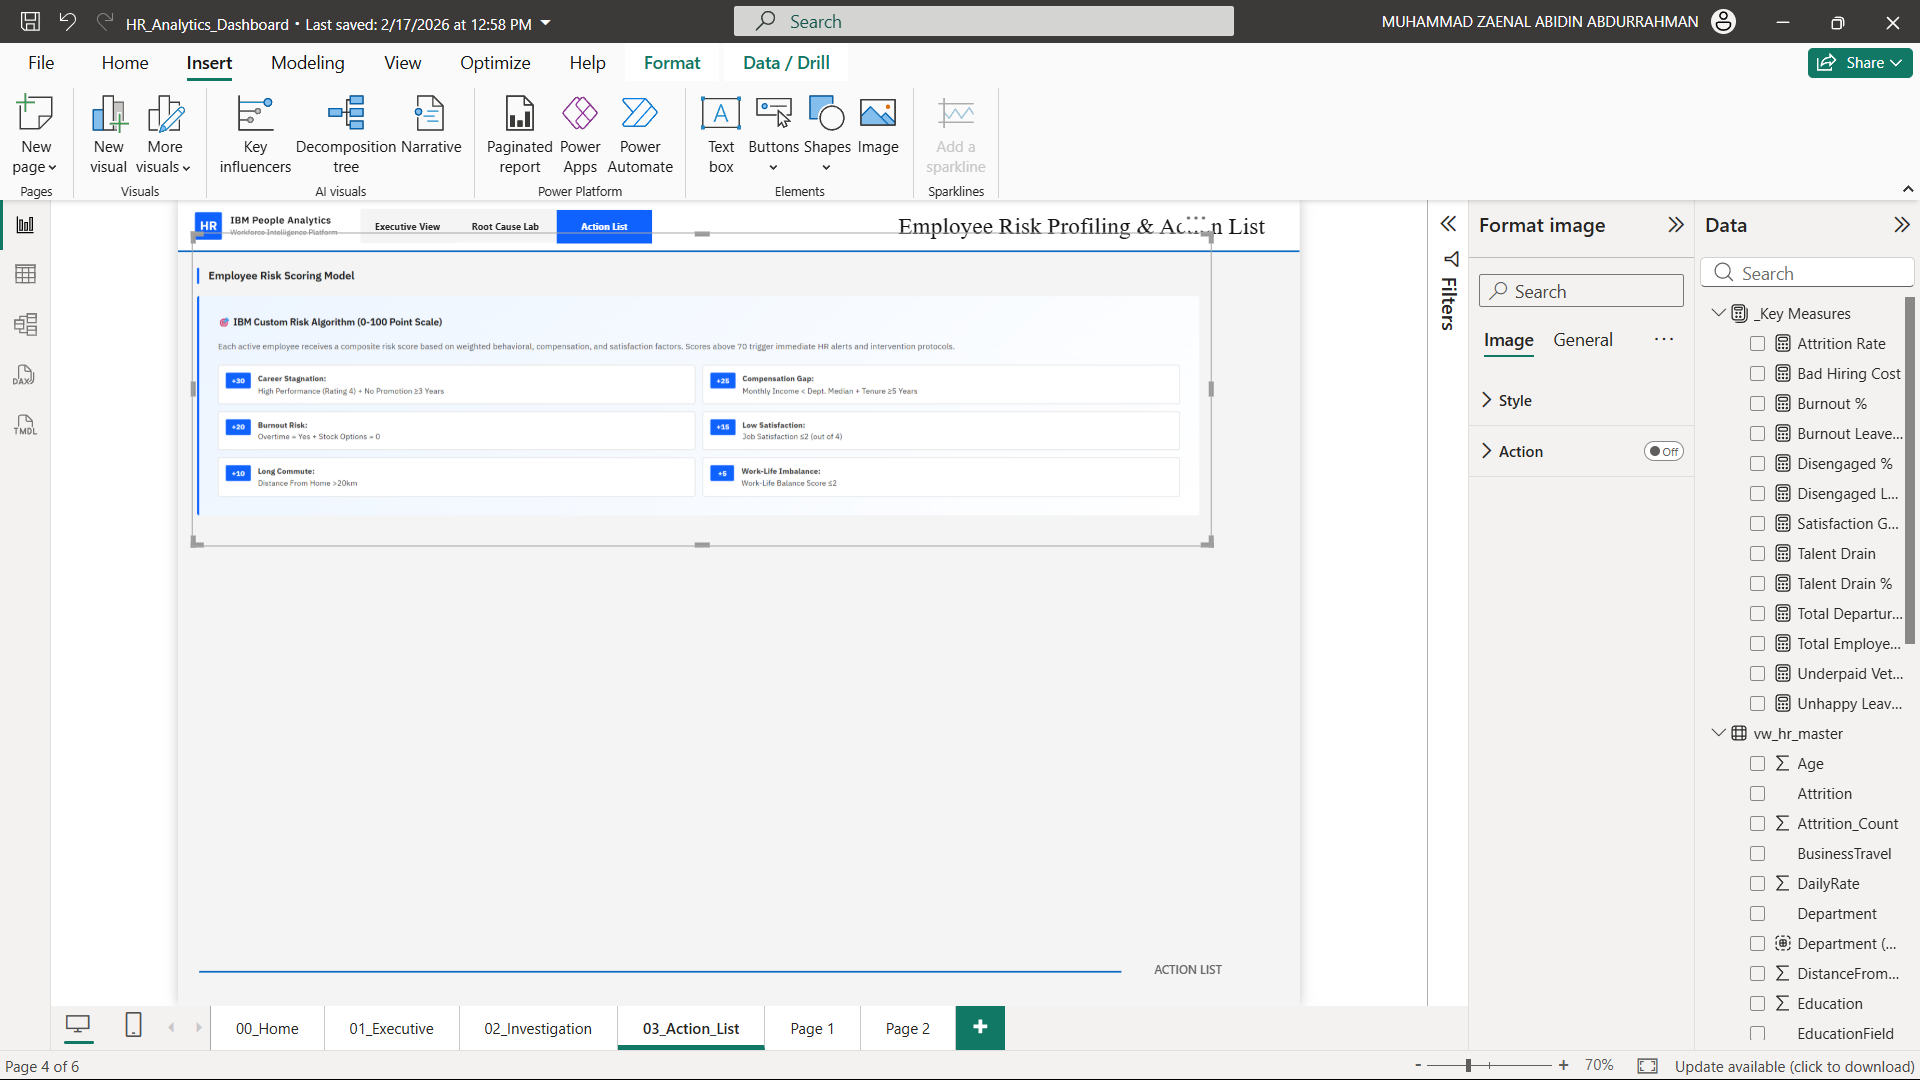
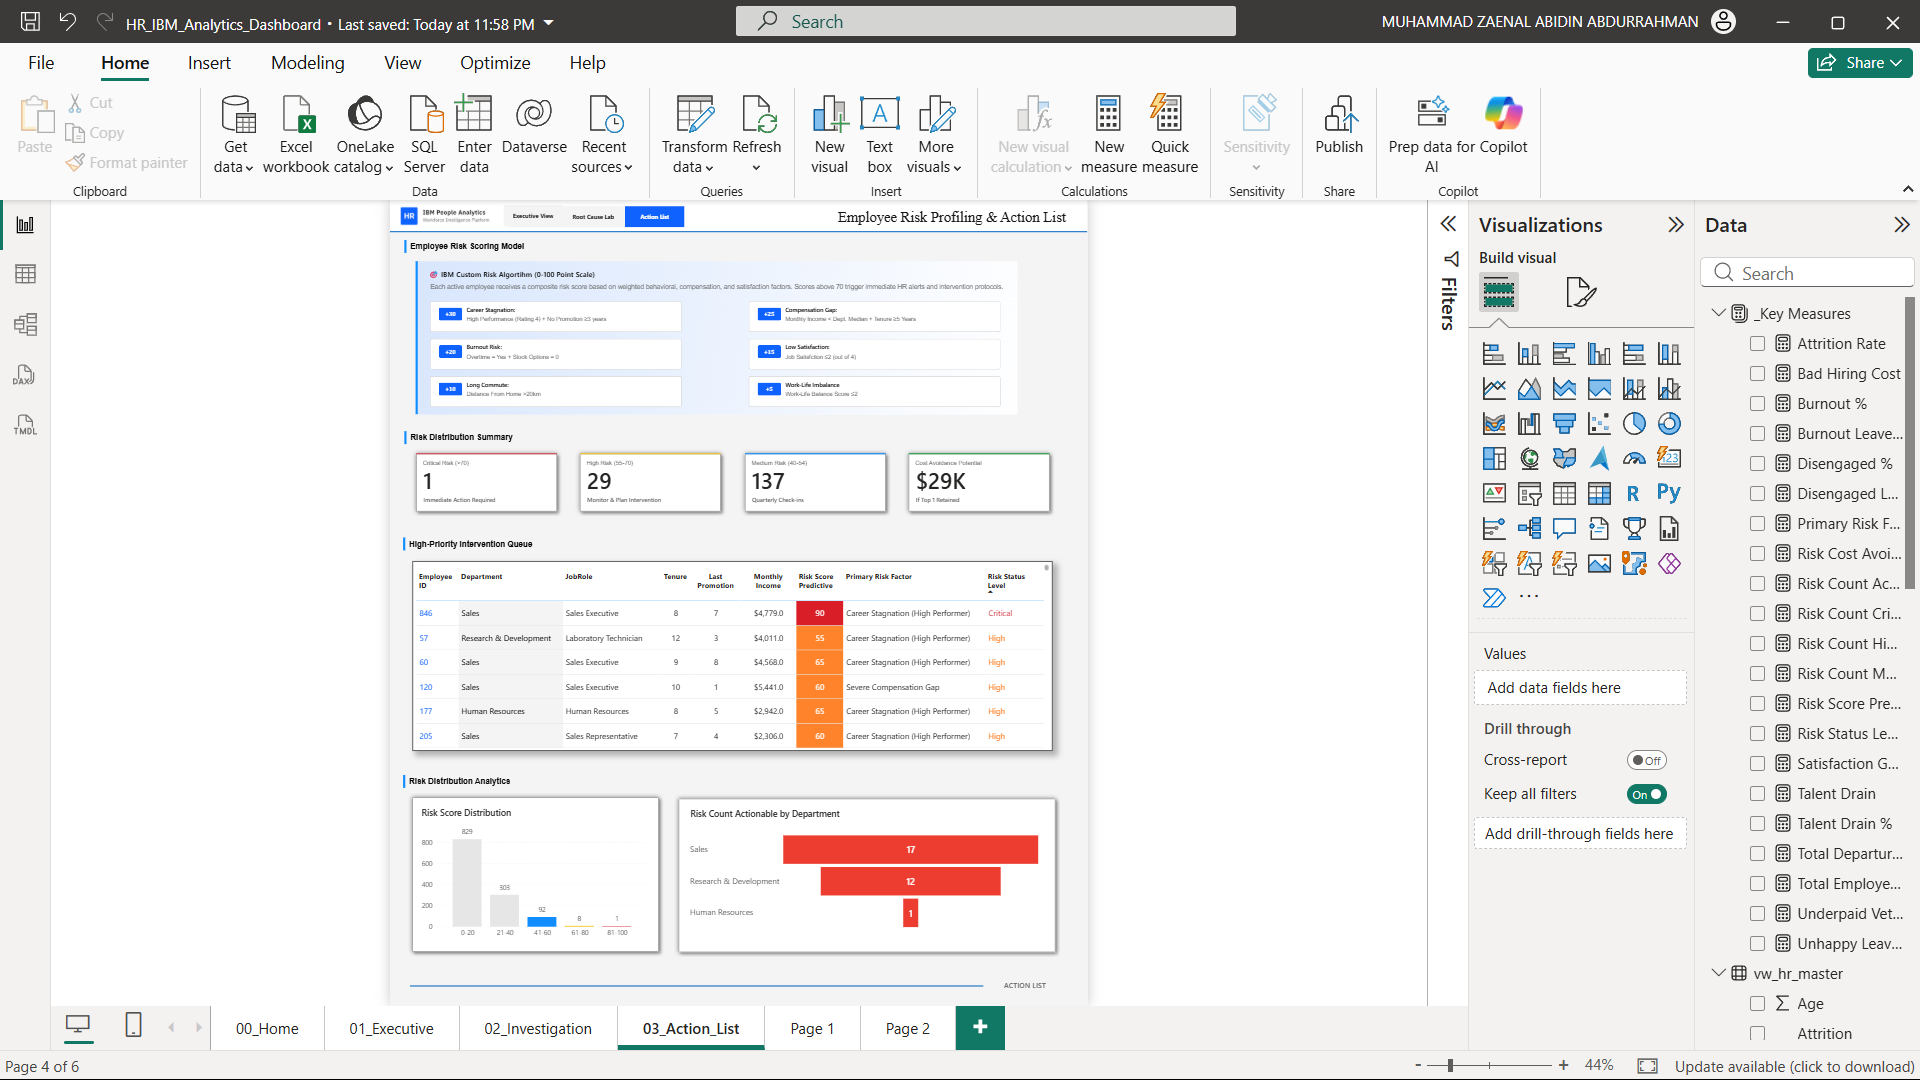
feat: deploy Module 03 Predictive Intervention System and finalize platform
Engineered a custom DAX Risk Scoring Engine (0-100 scale) for row-level employee attrition evaluation based on 6 core business drivers. Implemented Executive Summary KPIs including a  Cost Avoidance metric. Designed the Intervention Queue with dynamic conditional data bars and automated diagnostic tags (Primary Risk Factor). Built Risk Distribution Analytics featuring a Score Histogram, Concentration Funnel, and Pareto chart. Overhauled README.md to reflect enterprise-grade prescriptive analytics architecture. Concluded end-to-end Power BI development.

diff --git a/README.md b/README.md
@@ -1,71 +1,74 @@
-# HR Executive Command Center: People Analytics Platform
+# HR Executive Command Center: Predictive Analytics & Intervention Platform
 
-![MySQL](https://img.shields.io/badge/Database-MySQL_8.0-005C84?logo=mysql&logoColor=white)
-![Power BI](https://img.shields.io/badge/Visualization-Power_BI-F2C811?logo=powerbi&logoColor=black)
-![Status](https://img.shields.io/badge/Status-Active_Development-007ACC)
+## Executive Summary
 
-## Dashboard Architecture Preview
+This project represents a fully realized, enterprise-grade analytics solution engineered to diagnose Employee Attrition, quantify financial impact, and prescribe data-driven retention strategies. Unlike standard descriptive dashboards that merely report past metrics, this platform functions as a **Prescriptive Analytics Application**.
 
-### Module 00: Command Center (Landing Page)
-*Centralized navigation hub with state-based interaction logic.*
-![Dashboard Landing Page](visualization/landing_page_preview.png)
-
-### Module 01: Executive Strategic View (Completed)
-*High-level KPIs, Financial Impact Analysis ($9.25M Loss), and Workforce Demographics.*
-![Executive View](visualization/executive_view_preview.png)
-
-### Module 02: Root Cause Analysis Lab (Completed)
-*Diagnostic engine featuring salary equity scatter plots, burnout risk heatmaps, and promotion stagnation analysis.*
-![Root Cause Lab](visualization/root_cause_preview.png)
-
-### Module 03: Root Cause Analysis Lab (Completed)
-*![Status](https://img.shields.io/badge/Status-Active_Development-007ACC)*
-![Action List](visualization/action_list_preview.png)
-
-> **Current Status:** The Data Engineering (SQL) pipeline, UI/UX Architecture, Strategic Dashboard, and Diagnostic Lab are complete. Development is now strictly focused on the final module: The Risk Action List & Employee Profiling.
+By leveraging an IBM HR Analytics dataset, the system shifts the Human Resources paradigm from reactive reporting to proactive intervention. It highlights a historical $9M Bad Hiring Cost while simultaneously deploying a custom algorithmic Risk Engine to evaluate active employees, isolate root causes (e.g., compensation gaps, career stagnation), and calculate forward-looking Cost Avoidance Potential.
 
 ---
 
-## Project Overview
-This project serves as a strategic analytics solution designed to diagnose Employee Attrition and quantify Workforce Performance risks. Unlike standard reporting dashboards, this solution is architected as an **Analytics Application** with a dedicated navigation system, treating data analysis as a distinct internal product.
+## System Architecture & Module Breakdown
 
-Leveraging a dataset from IBM HR Analytics, the primary objective is to shift HR monitoring from descriptive reporting to **diagnostic analysis**. The system calculates critical financial metrics, such as the estimated **$9M Bad Hiring Cost**, and identifies high-risk employee segments to formulate data-driven retention strategies.
+The visualization layer bypasses traditional long-scroll report designs in favor of a "Navigation-First", application-like interface utilizing strict state-based logic.
 
-## Technical Implementation
+### Module 00: Command Center (Landing Page)
+
+* **Function:** Centralized navigation hub.
+* **Architecture:** Utilizes distinct active/inactive button states and strict visual hierarchy to guide executive users seamlessly through the analytical modules.
+* **Preview:** ![Dashboard Landing Page](visualization/landing_page_preview.png)
+
+### Module 01: Executive Strategic View
+
+* **Function:** Macro-level performance monitoring.
+* **Architecture:** Delivers instant visibility into core KPIs, workforce demographic segmentation (Generational and Income brackets), and the overall financial impact of historical attrition.
+* **Preview:** ![Executive View](visualization/executive_view_preview.png)
+
+### Module 02: Root Cause Analysis Lab
+
+* **Function:** Diagnostic engine for hypothesis validation.
+* **Architecture:** Deploys multidimensional analysis to identify structural issues. Features include Salary vs. Tenure scatter plots to spot "Underpaid Veterans", a Burnout Matrix correlating overtime with job satisfaction, and a full-width risk concentration heatmap across job roles.
+* **Preview:** ![Root Cause Lab](visualization/root_cause_preview.png)
+
+### Module 03: Predictive Intervention System (Action List)
+
+* **Function:** Row-level prescriptive action queue.
+* **Architecture:** Powered by a custom DAX iteration engine, this module assigns a 0-100 risk score to every active employee. It features an Executive Summary of at-risk populations, a Pareto analysis of primary risk drivers, and a prioritized intervention table complete with dynamic diagnostic tags and conditional data bars.
+* **Preview:** ![Action List](visualization/action_list_preview.png)
+
+---
+
+## Technical Implementation & Business Logic
 
 ### 1. Data Engineering & Transformation (MySQL)
-To ensure scalability and performance, this project rejects the standard workflow of loading raw CSV files directly into visualization tools. Instead, **SQL** is utilized for data hardening, logic encapsulation, and anomaly resolution before the data reaches the BI layer.
 
-* **Data Integrity & Auditing**
-    * Performed rigorous data auditing to identify schema inconsistencies and constant values.
-    * Resolved critical data ingestion issues, specifically handling hidden **UTF-8 BOM characters** in the raw CSV headers that prevented standard column recognition.
+To ensure processing efficiency and single-source-of-truth integrity, extensive data hardening was performed in the SQL layer before reaching the Business Intelligence environment.
 
-* **Feature Engineering via SQL**
-    * Developed categorical features directly in the database layer using `CASE` statements.
-    * **Generational Segmentation:** Transforming numerical Age into 'Gen Z', 'Millennials', 'Gen X', and 'Boomers'.
-    * **Socio-Economic Grouping:** Bucketing salary data into 'Low', 'Medium', and 'High' Income Groups.
-    * *Benefit:* This approach reduces the processing load on Power BI (DAX) and ensures consistent business logic across the platform.
+* **Anomaly Resolution:** Audited and resolved critical schema ingestion errors, specifically bypassing hidden UTF-8 BOM characters in raw CSV headers.
+* **Categorical Feature Engineering:** Executed database-level transformations using `CASE` statements to create analytical buckets (e.g., segmenting numerical Age into generational cohorts, and monthly income into specific socioeconomic tiers).
+* **View Abstraction:** Encapsulated the final, cleaned, and transformed dataset within a master view (`vw_hr_master`), protecting the analytical layer from underlying table alterations and pre-calculating essential binary flags.
 
-* **Logic Encapsulation (Views)**
-    * Created a master view `vw_hr_master` to serve as the single source of truth. This abstraction layer protects the dashboard from changes in the underlying raw tables and pre-calculates binary flags for attrition.
+### 2. Advanced DAX & Semantic Modeling (Power BI)
 
-### 2. Dashboard Architecture (Power BI)
-The visualization layer is designed with a **"Navigation-First"** approach, mimicking a modern web application interface rather than a static long-scroll report.
+The core intelligence of this platform relies on advanced Data Analysis Expressions (DAX) to evaluate context at both the macro (filter) and micro (row) levels.
 
-* **Module 00: Command Center (Landing Page)**
-    * Acts as the central navigation hub.
-    * Features state-based button interactivity (Hover/Press logic) to enhance user experience.
-* **Module 01: Executive View (Done)**
-    * Focuses on high-level KPIs including Attrition Rate, Financial Impact, and Average Tenure.
-* **Module 02: Root Cause Lab (Done)**
-    * A deep-dive diagnostic page designed to validate hypotheses regarding attrition drivers.
-    * **Key Features:**
-        * **Salary vs. Tenure Scatter Plot:** Identifies "Underpaid Veterans" (High tenure, low salary risks).
-        * **Burnout Matrix:** Correlates Overtime status with Job Satisfaction levels to identify burnout patterns.
-        * **Stagnation Analysis:** Tracks attrition probability based on years since last promotion.
-        * **Risk Heatmap:** A full-width matrix visualizing risk concentration across job roles.
-* **Module 03: Action List (Next Phase)**
-    * Detailed employee profiling and row-level data to identify specific individuals requiring immediate retention intervention.
+* **Custom Risk Scoring Algorithm:** Engineered an iterative evaluation measure (`AVERAGEX`) that scores individual employees based on 6 weighted corporate risk factors:
+* Career Stagnation (+30 points)
+* Department-Level Compensation Gaps (+25 points)
+* Burnout Risk / Lack of Equity (+20 points)
+* Critical Dissatisfaction (+15 points)
+* Commute Stress (+10 points)
+* Work-Life Imbalance (+5 points)
+
+
+* **Dynamic Diagnostics:** Implemented row-context logic using `MAX()` and `SUM()` wrappers to dynamically generate text-based diagnoses (e.g., "Severe Compensation Gap") for each employee in the intervention queue.
+* **Financial Quantification:** Translated attrition risk into financial metrics by calculating the Cost Avoidance Potential (estimated at 6x monthly salary per retained critical employee).
+
+### 3. Enterprise UI/UX Design
+
+* **Visual Polish:** Maintained a strict corporate color palette (IBM Blue, Red for Critical, Orange for High Risk).
+* **Data-to-Ink Ratio Optimization:** Removed default chart noise (gridlines, unnecessary axes) and utilized strategic whitespace.
+* **Conditional Formatting:** Applied dynamic background colors, font colors, and integrated data bars within tables to drastically reduce the cognitive load required to parse thousands of rows of employee data.
 
 ---
 
@@ -76,26 +79,28 @@ The visualization layer is designed with a **"Navigation-First"** approach, mimi
 │   └── HR_Employee_Attrition.csv      # Raw Data Source
 │
 ├── visualization/
-│   ├── HR_Analytics_Dashboard.pbix    # Power BI Project File (Active)
-│   ├── landing_page_preview.png       # Module 00 Screenshot
-│   ├── executive_view_preview.png     # Module 01 Screenshot
-│   └── root_cause_preview.png         # Module 02 Screenshot
+│   ├── HR_Analytics_Dashboard.pbix    # Complete Power BI Project File
+│   ├── landing_page_preview.png       # Module 00 User Interface
+│   ├── executive_view_preview.png     # Module 01 User Interface
+│   ├── root_cause_preview.png         # Module 02 User Interface
+│   └── action_list_preview.png        # Module 03 User Interface
 │
-├── HR_Analytics_Query.sql             # Complete Data Engineering Script
+├── HR_Analytics_Query.sql             # Complete MySQL Data Engineering Script
 └── README.md                          # Technical Documentation
+
 ```
 
 ---
 
-## Development Roadmap
+## Development Roadmap (Completed)
 
-* [x] **Phase 1: Data Engineering** (Audit, Cleaning, View Creation)
-* [x] **Phase 2: Semantic Modeling** (DAX Measures & Financial Metrics)
-* [x] **Phase 3: UI Architecture** (Landing Page & Navigation System)
+* [x] **Phase 1: Data Engineering** (Audit, Cleansing, SQL View Creation)
+* [x] **Phase 2: Semantic Modeling** (Base DAX Measures & Financial Metrics)
+* [x] **Phase 3: UI Architecture** (Landing Page & State-Based Navigation System)
 * [x] **Phase 4: Strategic Dashboard** (Executive View Construction)
-* [x] **Phase 5: Diagnostic Dashboard** (Root Cause Analysis)
-* [ ] **Phase 6: Operational Detail** (Risk List & Row Level Security)
+* [x] **Phase 5: Diagnostic Dashboard** (Root Cause Analysis Lab)
+* [x] **Phase 6: Prescriptive Analytics** (Custom Risk Scoring & Action List Generation)
 
 ---
 
-*Implementation by [Muhammad Zaenal Abidin Abdurrahman](https://www.linkedin.com/in/zendin1102/) - 2026*
+*Architected and developed by [Muhammad Zaenal Abidin Abdurrahman](https://www.linkedin.com/in/zendin1102/) - 2026*
